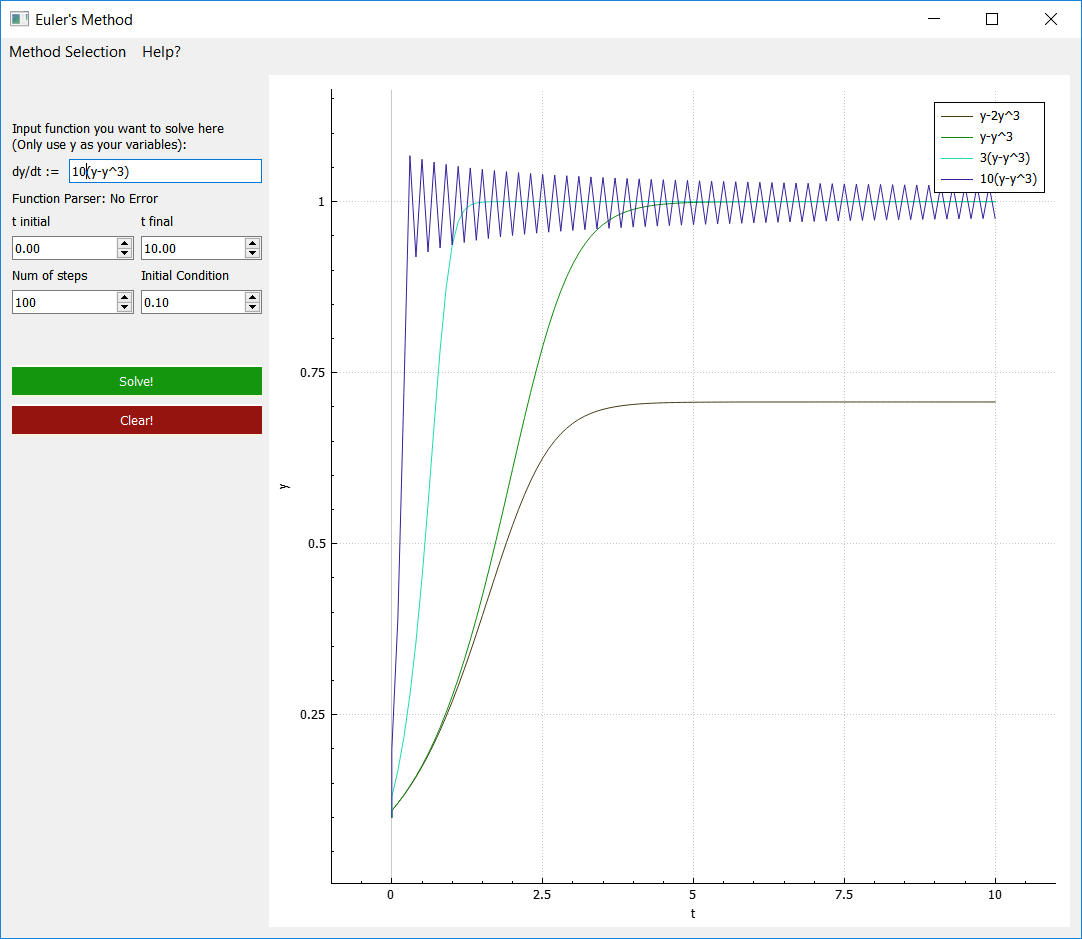
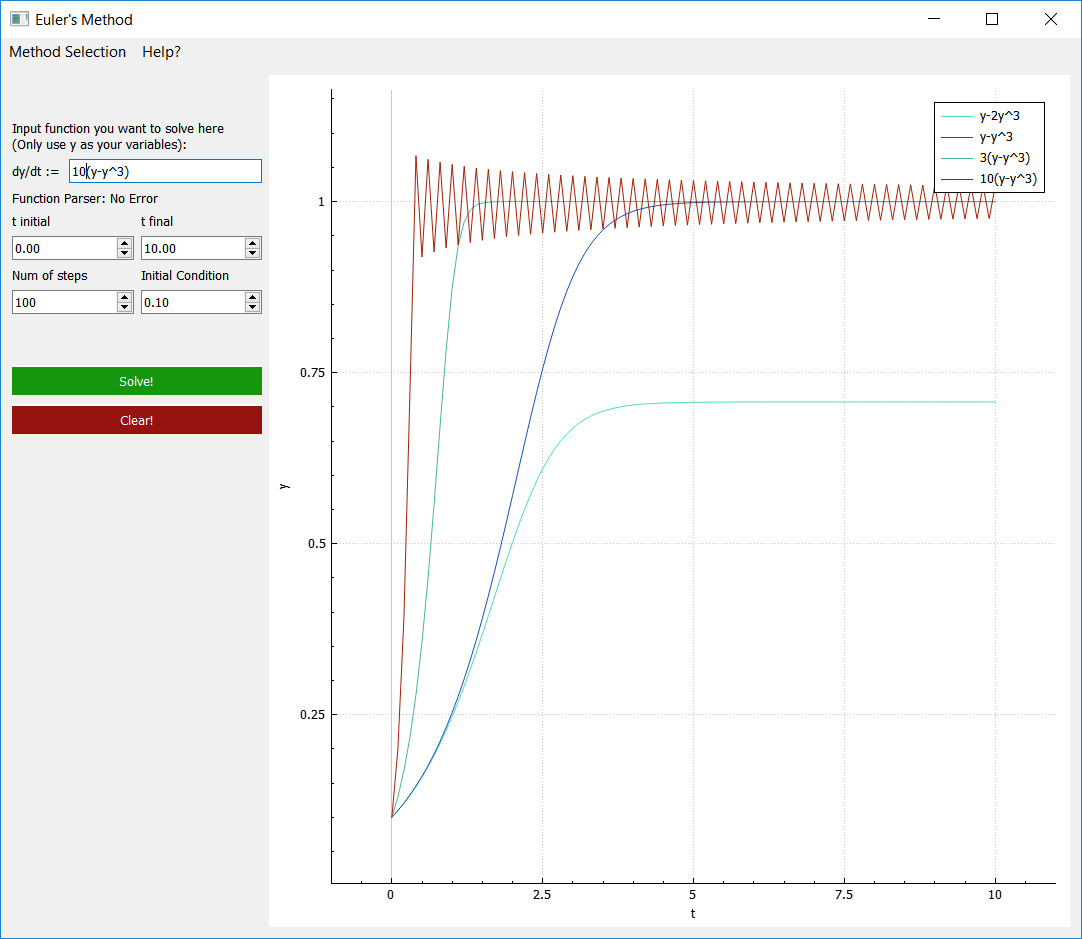
Slight bug in ODE solver fixed

diff --git a/FunctionPlotWindows/ODESolvingMethods/RK2method/RK2method.cpp b/FunctionPlotWindows/ODESolvingMethods/RK2method/RK2method.cpp
@@ -93,7 +93,7 @@ void RK2method::makepoints(){
 
     std::pair <double,double> data_point = std::make_pair(initial,result); // initial point
     points.push_back(data_point); // add the data point
-    for (double t = initial; t <= final; t += delta) // for all value points
+    for (double t = initial+delta; t <= final; t += delta) // for all value points
     {
        x = result; // set x as the result
        double deri = expression.value(); // evaluate the derivative at x = result

diff --git a/FunctionPlotWindows/ODESolvingMethods/eulermethod/eulermethod.cpp b/FunctionPlotWindows/ODESolvingMethods/eulermethod/eulermethod.cpp
@@ -93,7 +93,7 @@ void EulerMethod::makepoints(){
 
     std::pair <double,double> data_point = std::make_pair(initial,result); // initial point
     points.push_back(data_point); // add the data point
-    for (double t = initial; t <= final; t += delta) // for all value points
+    for (double t = initial+delta; t <= final; t += delta) // for all value points
     {
        x = result; // set x as result
        double deri = expression.value(); // evaluate the derivative at x = result

diff --git a/FunctionPlotWindows/ODESolvingMethods/trapezoidalmethod/trapezoidalmethod.cpp b/FunctionPlotWindows/ODESolvingMethods/trapezoidalmethod/trapezoidalmethod.cpp
@@ -65,7 +65,7 @@ void TrapezoidalMethod::makepoints(){
 
     std::pair <double,double> data_point = std::make_pair(initial,result); // initial point
     points.push_back(data_point); // add the data point
-    for (double t = initial; t <= final; t += delta) // for all value points
+    for (double t = initial+delta; t <= final; t += delta) // for all value points
     {
         int iter_num = 1; // initialize the iteration counter
         prev = result; // copy the previous result

diff --git a/FunctionPlotWindows/ODESolvingMethods/Backeulermethod/Backeulermethod.cpp b/FunctionPlotWindows/ODESolvingMethods/Backeulermethod/Backeulermethod.cpp
@@ -96,7 +96,7 @@ void BackEulerMethod::makepoints(){
 
     std::pair <double,double> data_point = std::make_pair(initial,result); // initial point
     points.push_back(data_point); // add the data point
-    for (double t = initial; t <= final; t += delta) // for all value points
+    for (double t = initial+delta; t <= final; t += delta) // for all value points
     {
         int iter_num = 1; // initialize the iteration counter
         prev = result; // copy the previous result

diff --git a/FunctionPlotWindows/ODESolvingMethods/rk4method/rk4method.cpp b/FunctionPlotWindows/ODESolvingMethods/rk4method/rk4method.cpp
@@ -93,7 +93,7 @@ void RK4method::makepoints(){
 
     std::pair <double,double> data_point = std::make_pair(initial,result); // initial point
     points.push_back(data_point); // add the data point
-    for (double t = initial; t <= final; t += delta) // for all value points
+    for (double t = initial+delta; t <= final; t += delta) // for all value points
     {
        x = result; // set x as the result
        double xset = result; // save the result for later use in the method
